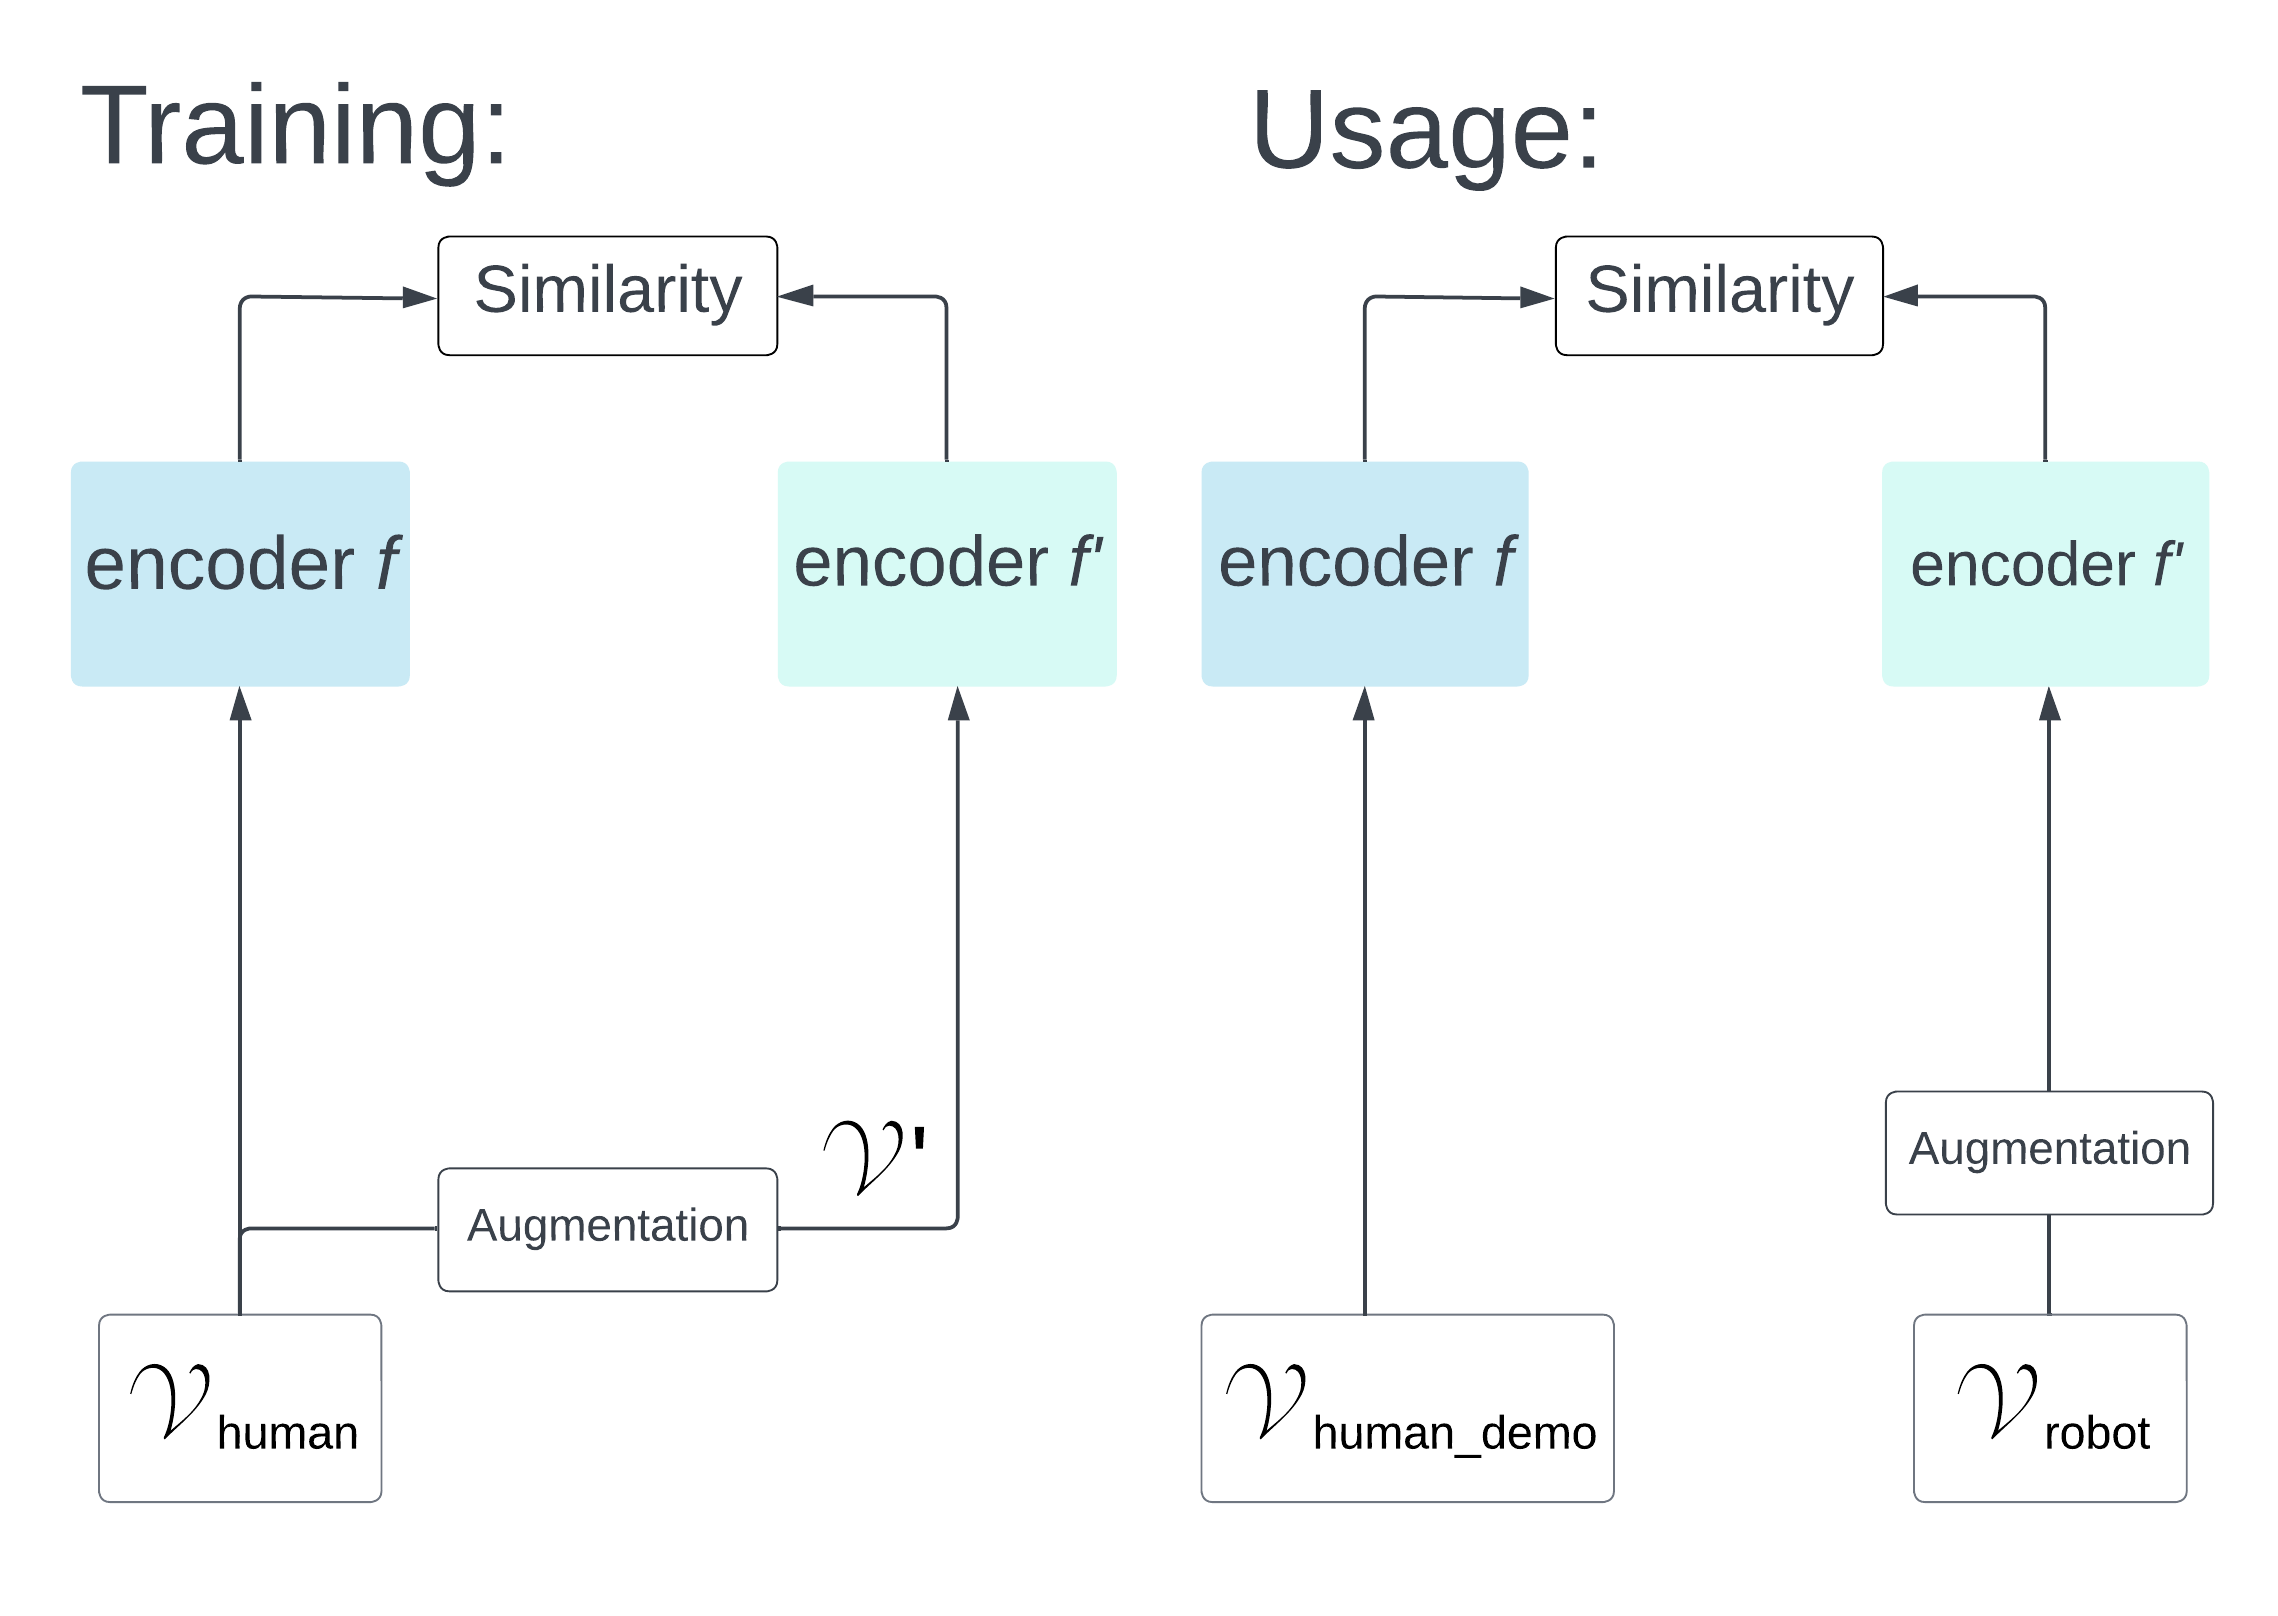
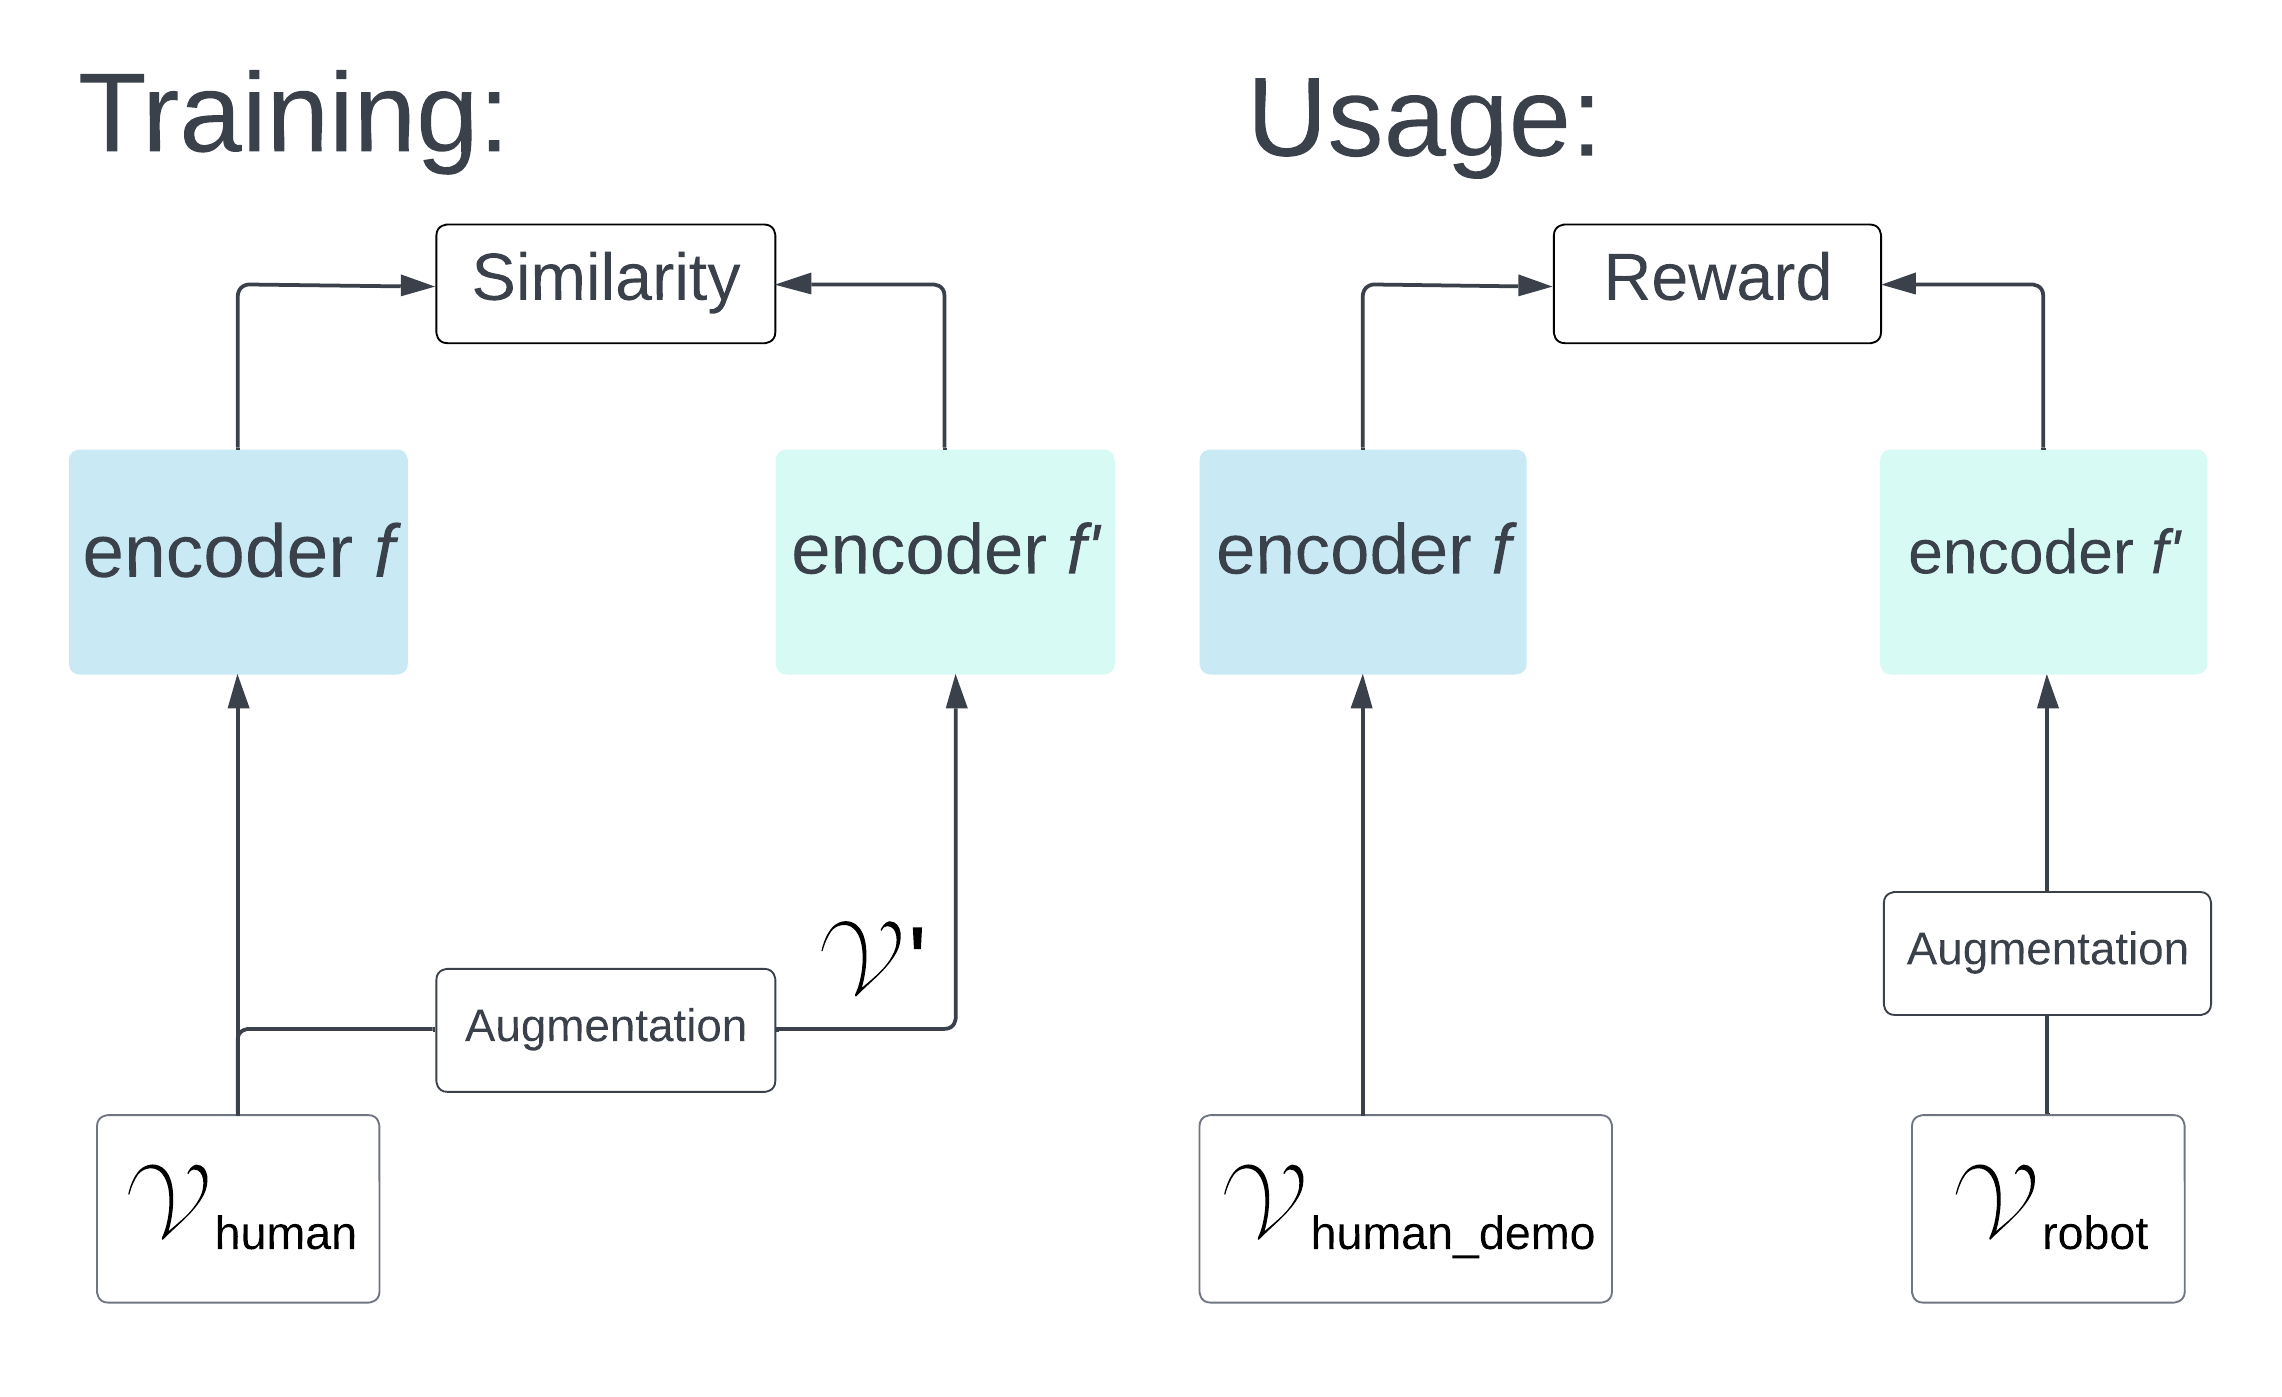
New plot
New plot + new read more

diff --git a/index.html b/index.html
@@ -217,7 +217,7 @@
                             <papertitle>Scalable Robot Skill Acquisition from Human Activity Data</papertitle>
                             <br>
                         <strong>Yiqi Wang</strong>,
-                        <a><author>Mrinal Verghese</author></a>,
+                        <a href="http://mrinal.verghese.org/"><author>Mrinal Verghese</author></a>,
                         <!-- <a ><author>Chris Atkeson</author></a>, -->
                        
                         <br>
@@ -235,14 +235,12 @@
                                 <li>Could we benefit robot skill acquisition by transferring skill demonstrated by humans on Internet via VLMs?.</li>
                                 <li>I observed that VLMs (text-video model) is insufficient to distinguish nuances in text descriptions. Thus, insufficient to supervise robot skill learning.</li>
                                 <ul>
-                                    <li>Black tea</li>
-                                    <li>Green tea</li>
-                                    </ul>
-                                <!-- <li>After LM pretraining, we add an extra trainable FFN to each transformer block to accomodate the audio modality during the ASR, called audio expert. 
-                                    The original FFN inherit from LM pretrianing is called text expert. The self-attn is also inherit from LM pretrianing.
-                                </li>  
-                                <li>We observed that naively feed a new modality to the unimodal pretrained modal with a newly added trainable FFN to each block introduce training instability.</li>
-                                <li>Our hypothesis is that the gap in modality representation (audio VS. text) introduce this issue. We're now instigating grounding technique to fix thiss issue.</li> -->
+                                    <li>Pouring wine from bottle involves gental movement of hand.</li>
+                                    <li>Pouring sticky sauce from bottle involves quickly flipping the container and shaking.</li>
+                                    <li>Rewards similar in scale are provided in both cases, which is unexpected.</li>
+                                </ul>
+
+                                <li>Since direct cross-modal alignment between video and text are demanding, I'm exploring video-video paradigm right now (illustrated in the figure).</li> -->
                             </ul>
                             </div>
                         </div>
